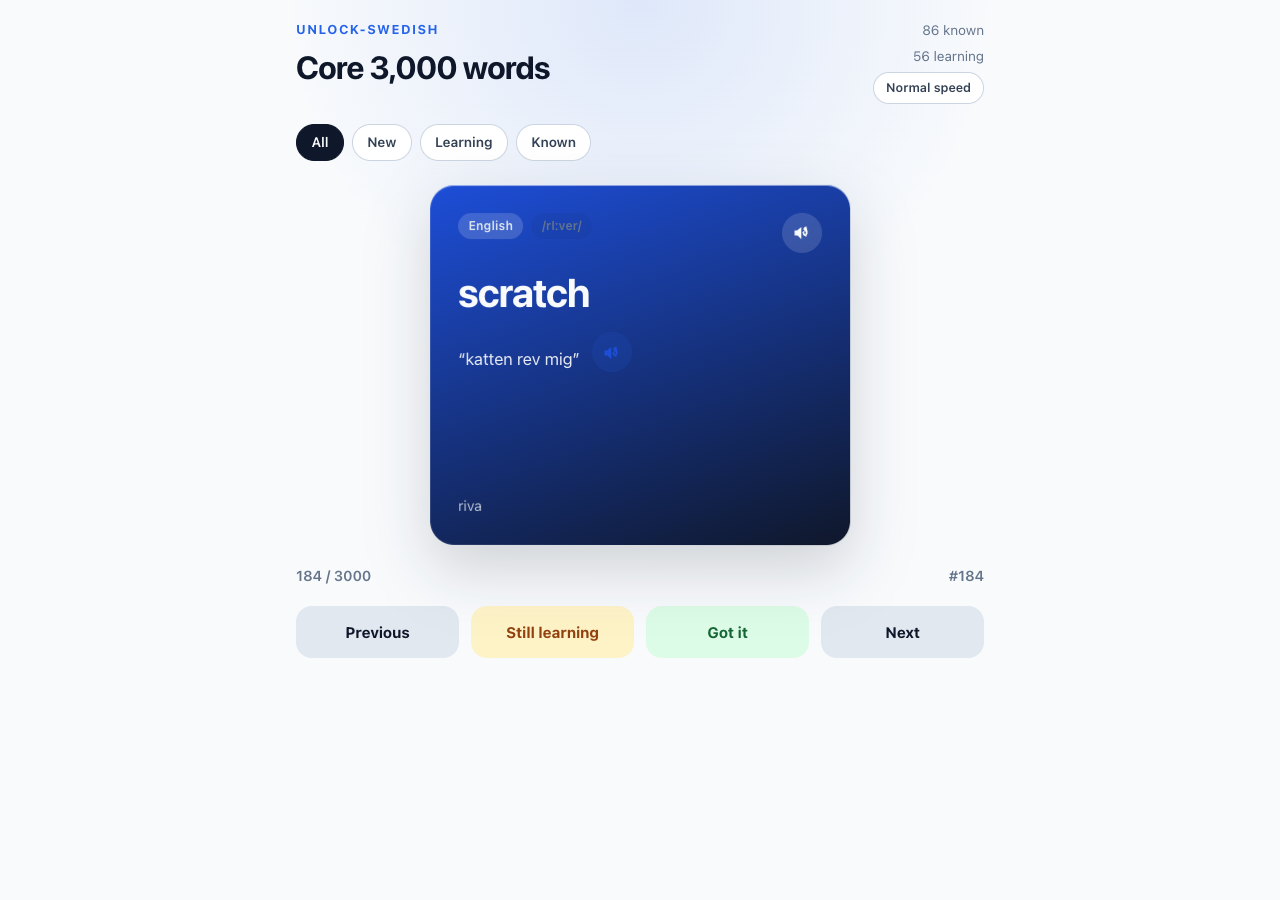
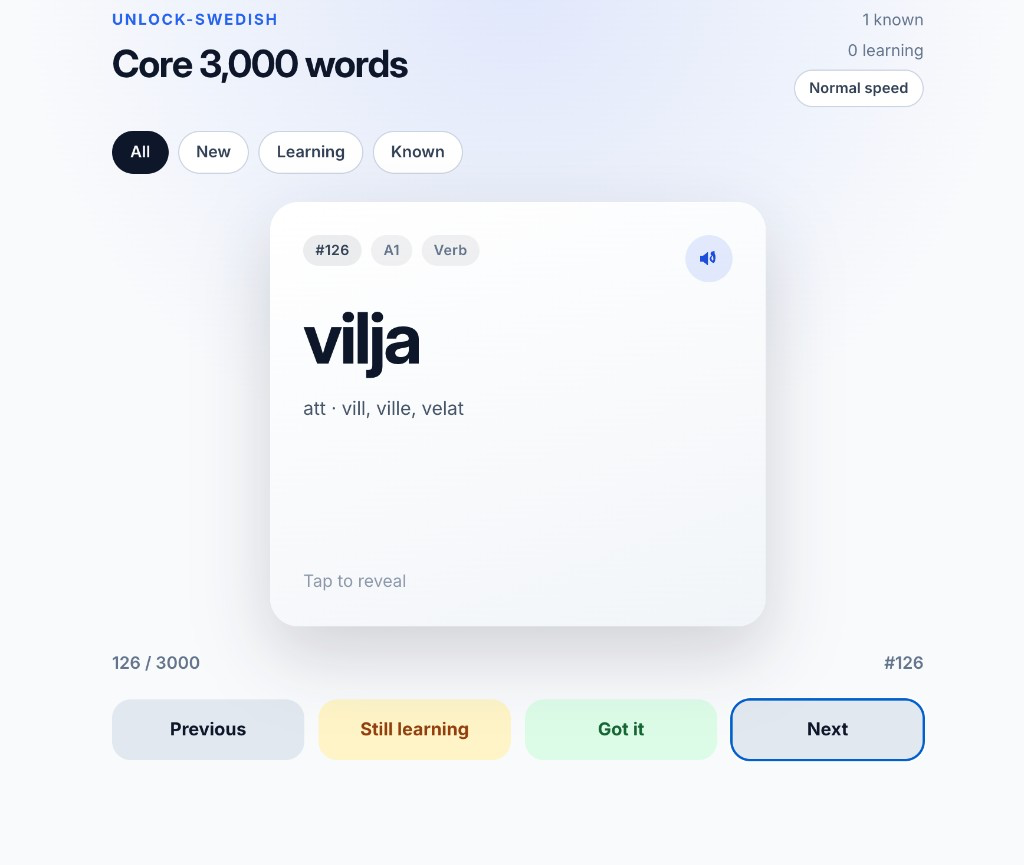
Update Unlock Swedish screenshot and crop to the top.
Replace the study capture and pin object-position so the header and card stay in frame.

diff --git a/data/projects.js b/data/projects.js
@@ -288,7 +288,7 @@ window.PORTFOLIO_PROJECTS = [
     visual: {
       type: "image",
       src: "assets/projects/unlock-swedish-front.png",
-      alt: "Unlock Swedish study screen with revealed translation and progress counts",
+      alt: "Unlock Swedish flip-card study screen for the Core 3,000 words deck",
     },
   },
   {

diff --git a/styles.css b/styles.css
@@ -369,6 +369,10 @@ svg {
   object-fit: cover;
 }
 
+#unlock-swedish .project-media img {
+  object-position: top center;
+}
+
 .project-media object {
   pointer-events: none;
   background: #dfe7ea;
